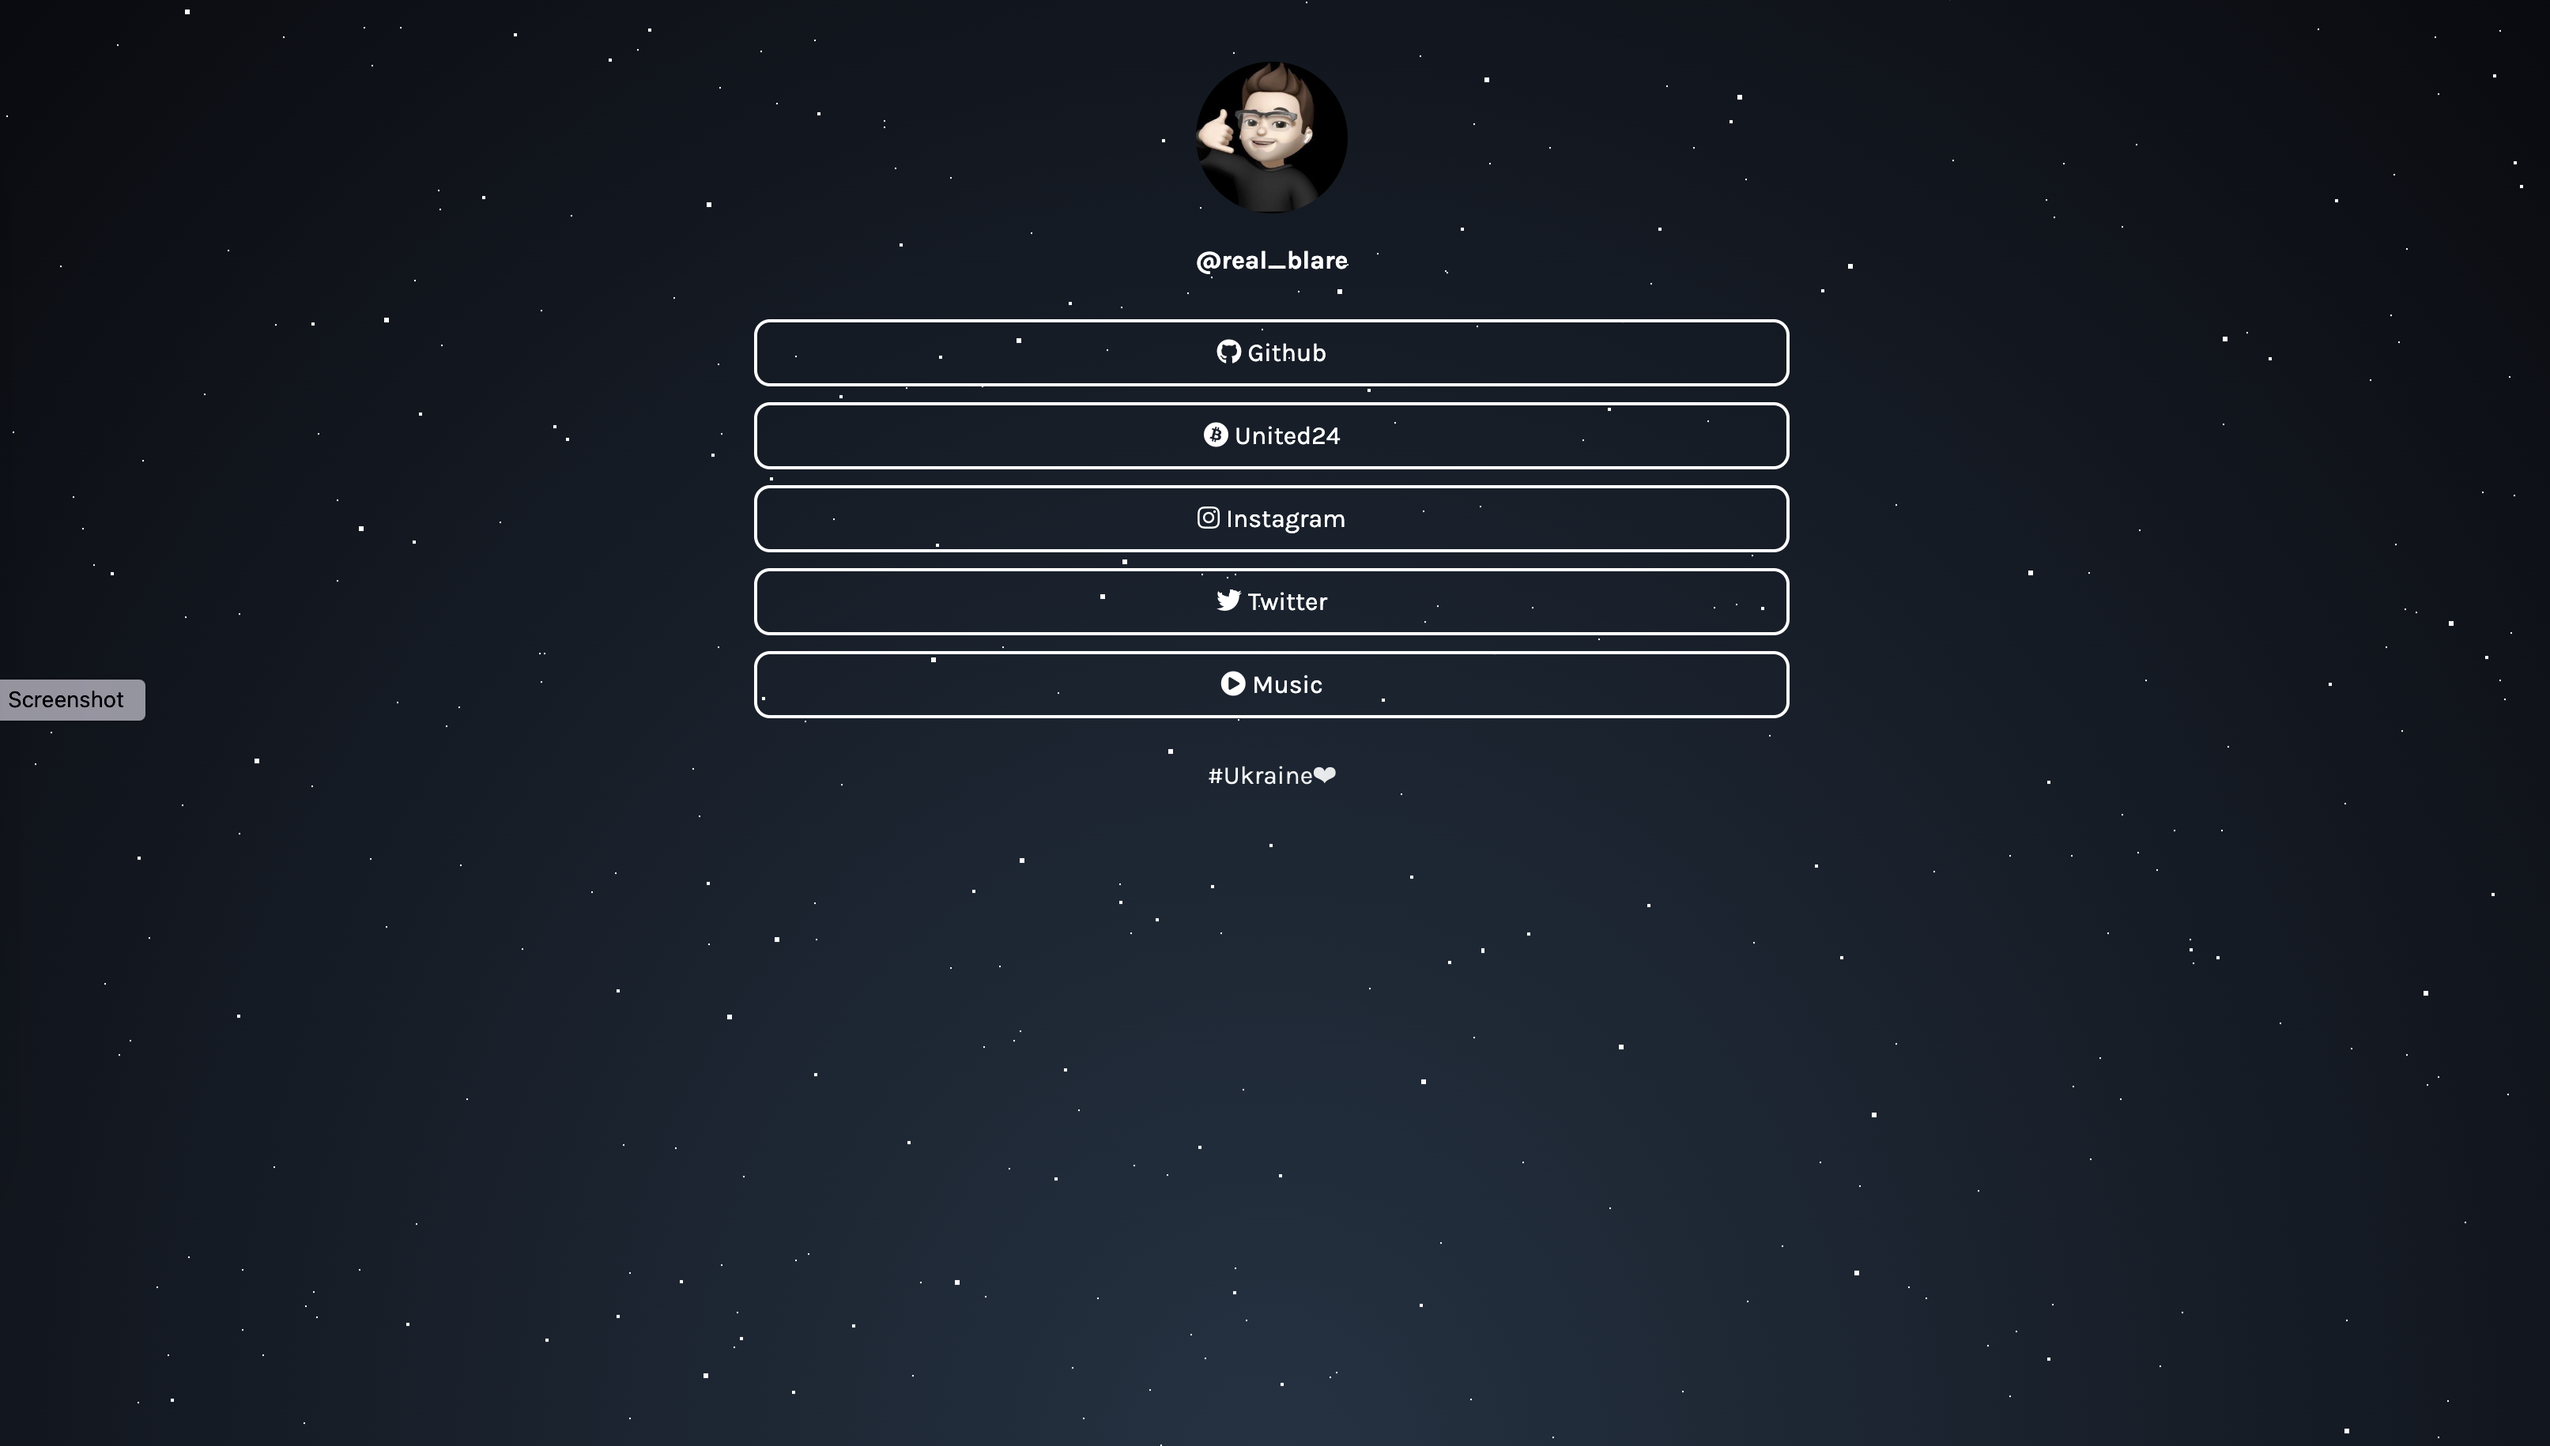
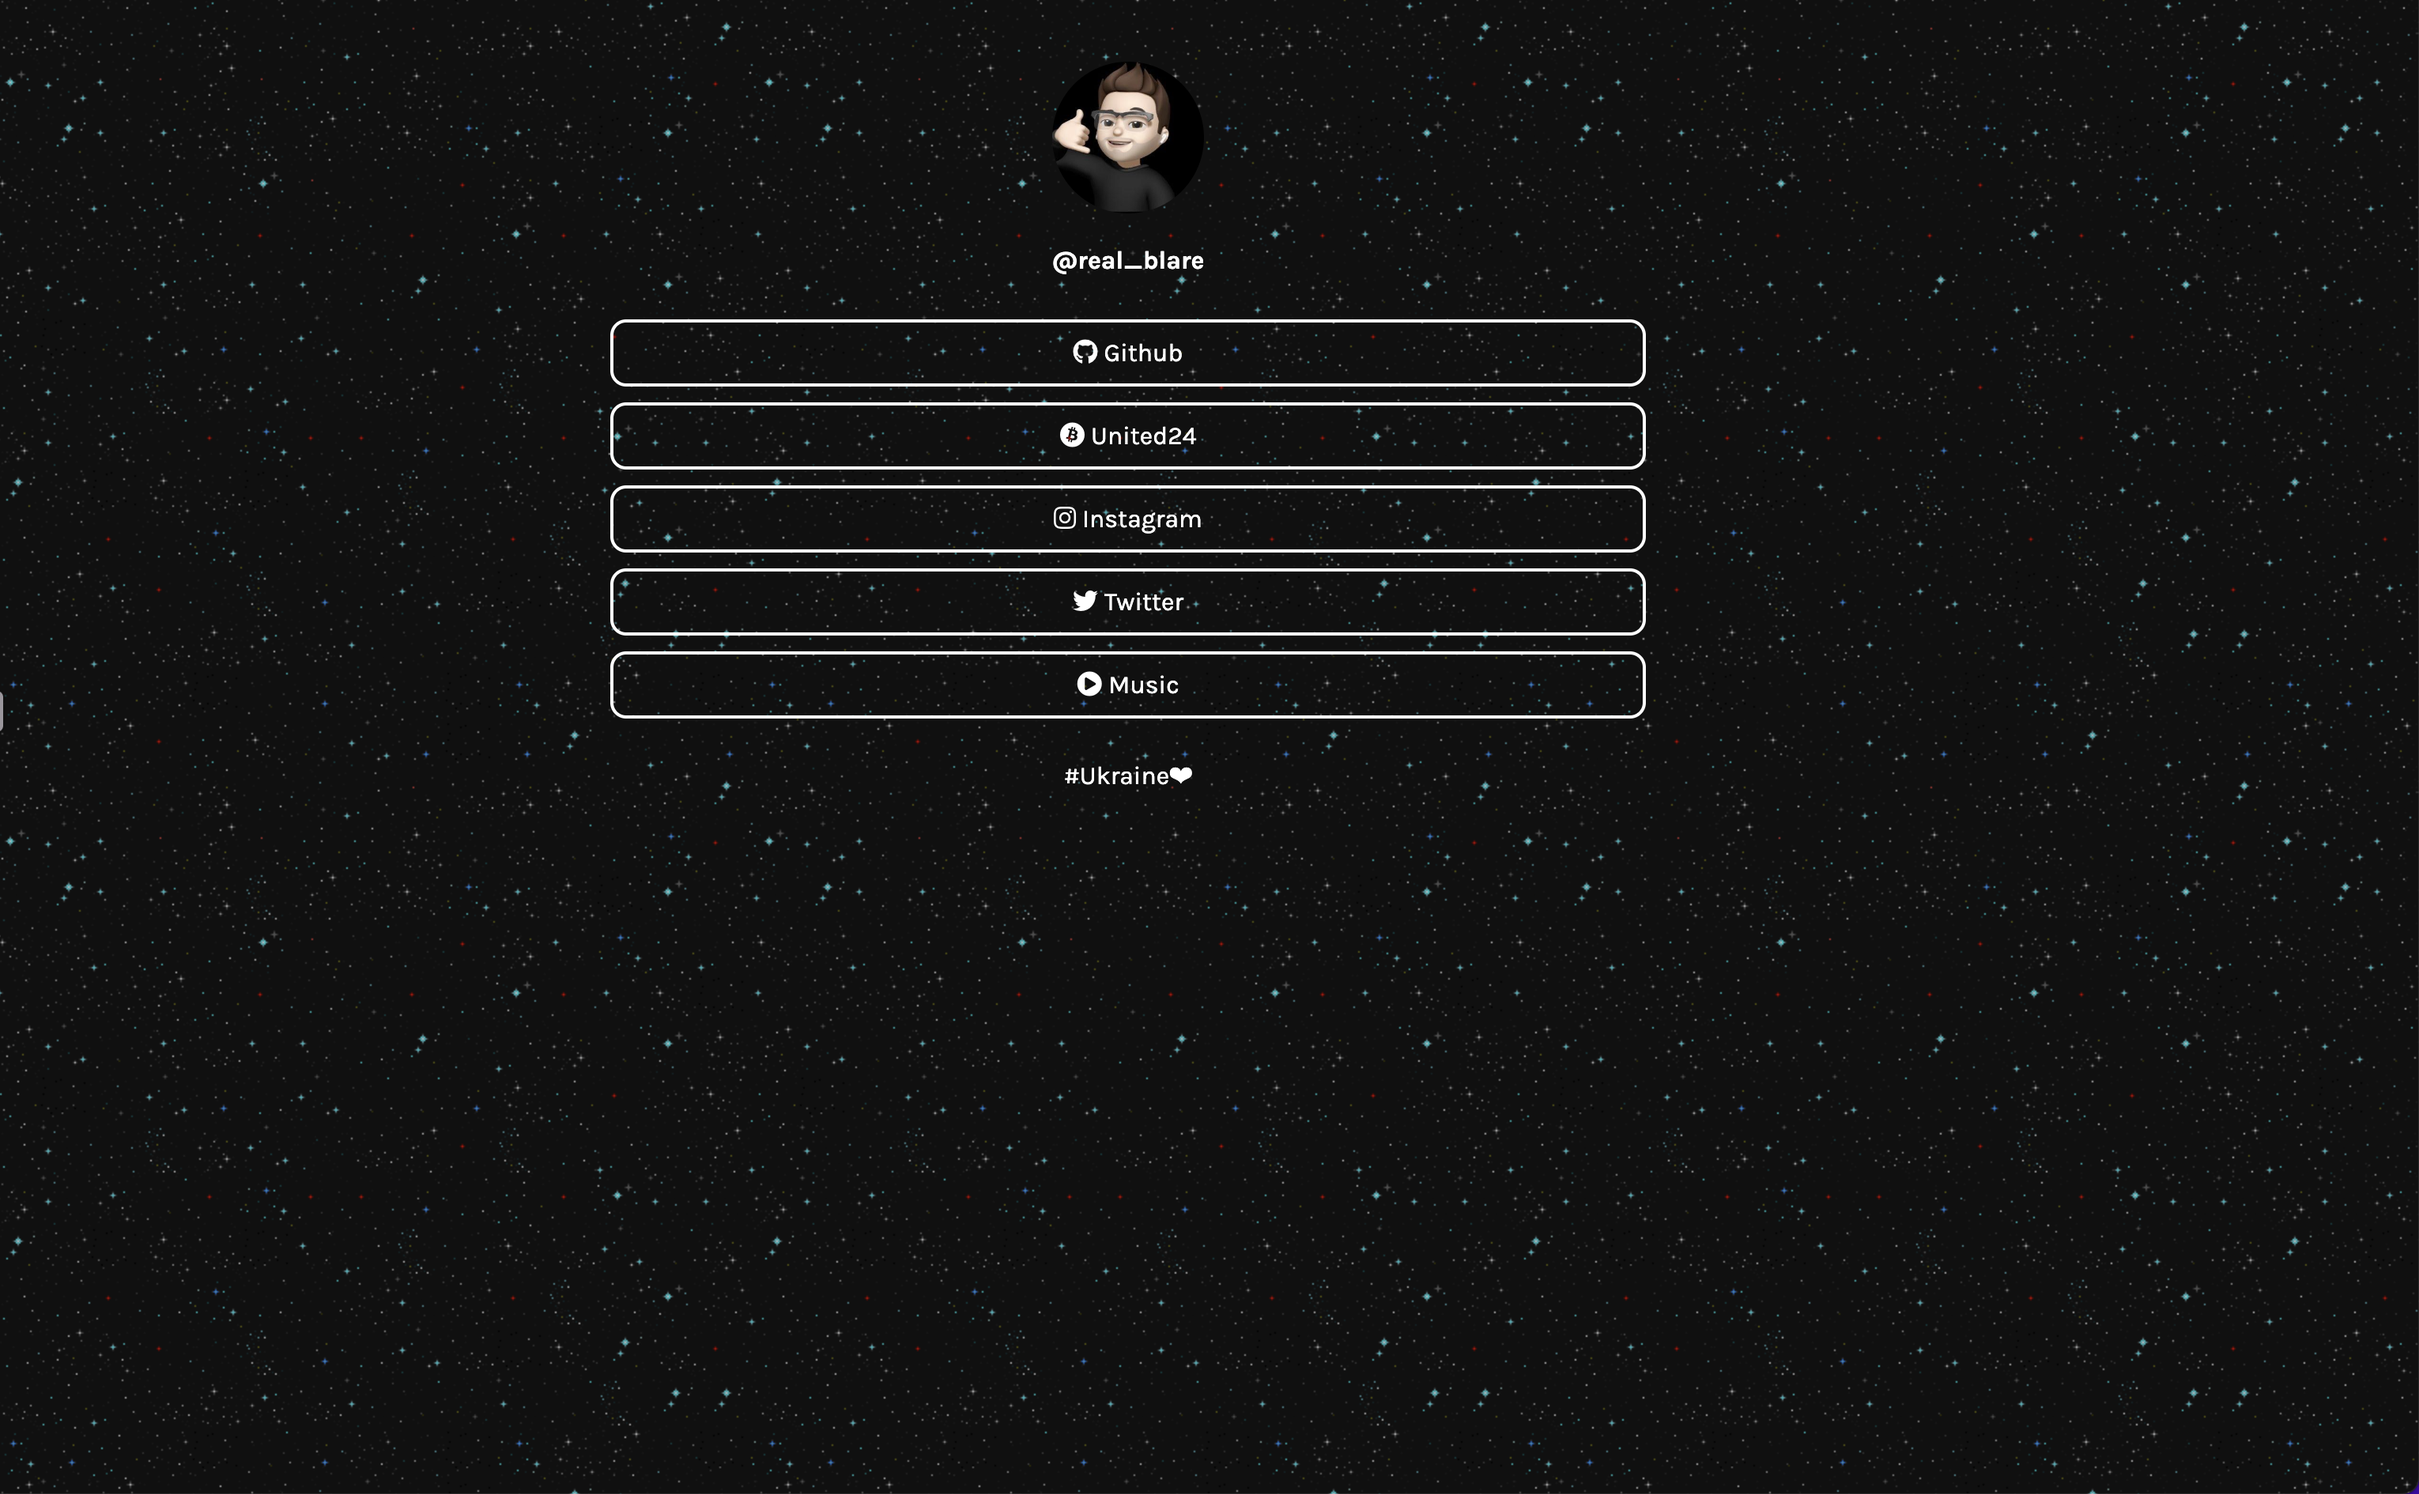
add background

diff --git a/style.css b/style.css
@@ -13,18 +13,24 @@ body {
   padding: 0;
   min-height: 100vh;
   font-family: var(--font);
-  background: radial-gradient(
-    ellipse at bottom,
-    var(--bgColor) 0%,
-    var(--bgColor2) 100%
-  );
-  /* background-image: url('https://bit.ly/3nFVqJh'); */
-  opacity: 0;
-  animation: 1s ease-out var(--delay) 1 transitionAnimation; /* duration/timing-function/delay/iterations/name */
-  animation-fill-mode: forwards;
-  background-repeat: no-repeat;
-  background-size: cover;
-  position: relative;
[1 lines of base64/hex data omitted]
+  background-position: top center;
+  background-attachment: fixed;
+}
+@keyframes bounce-background {
+  from {
+    background-position: 0 0px;
+  }
+
+  to {
+    background-position: 0 960px;
+  }
+}
+body {
+  animation-name: bounce-background;
+  animation-timing-function: linear;
+  animation-duration: 30s;
+  animation-iteration-count: infinite;
 }
 
 #profilePicture,
@@ -96,55 +102,8 @@ body {
   font-family: var(--font);
   width: 100%;
   text-align: center;
-
-  /*  animation   */
-  overflow: hidden;
-  background: linear-gradient(
-    90deg,
-    var(--bgColor),
-    var(--accentColor),
-    var(--bgColor)
-  );
-  background-repeat: no-repeat;
-  background-size: 80%;
-  animation: animate 3s linear var(--delay) infinite;
-  -webkit-background-clip: text;
-  background-clip: text;
-  -webkit-text-fill-color: rgba(255, 255, 255, 0);
 }
 
-/*-------------------------animations-----------------------*/
-@keyframes transitionAnimation {
-  0% {
-    opacity: 0;
-    transform: translateY(-10px);
-  }
-  100% {
-    opacity: 1;
-    transform: translateY(0);
-  }
-}
-
-@keyframes animate {
-  0% {
-    background-position: -500%;
-  }
-  100% {
-    background-position: 500%;
-  }
-}
-
-@keyframes animStar {
-  from {
-    transform: translateY(0px);
-  }
-  to {
-    transform: translateY(-2000px);
-  }
-}
-
-/*-------------------------popup------------------------*/
-/* credits: https://www.youtube.com/watch?v=lAS2glU0xlc */
 .overlay {
   display: flex;
   align-items: center;
